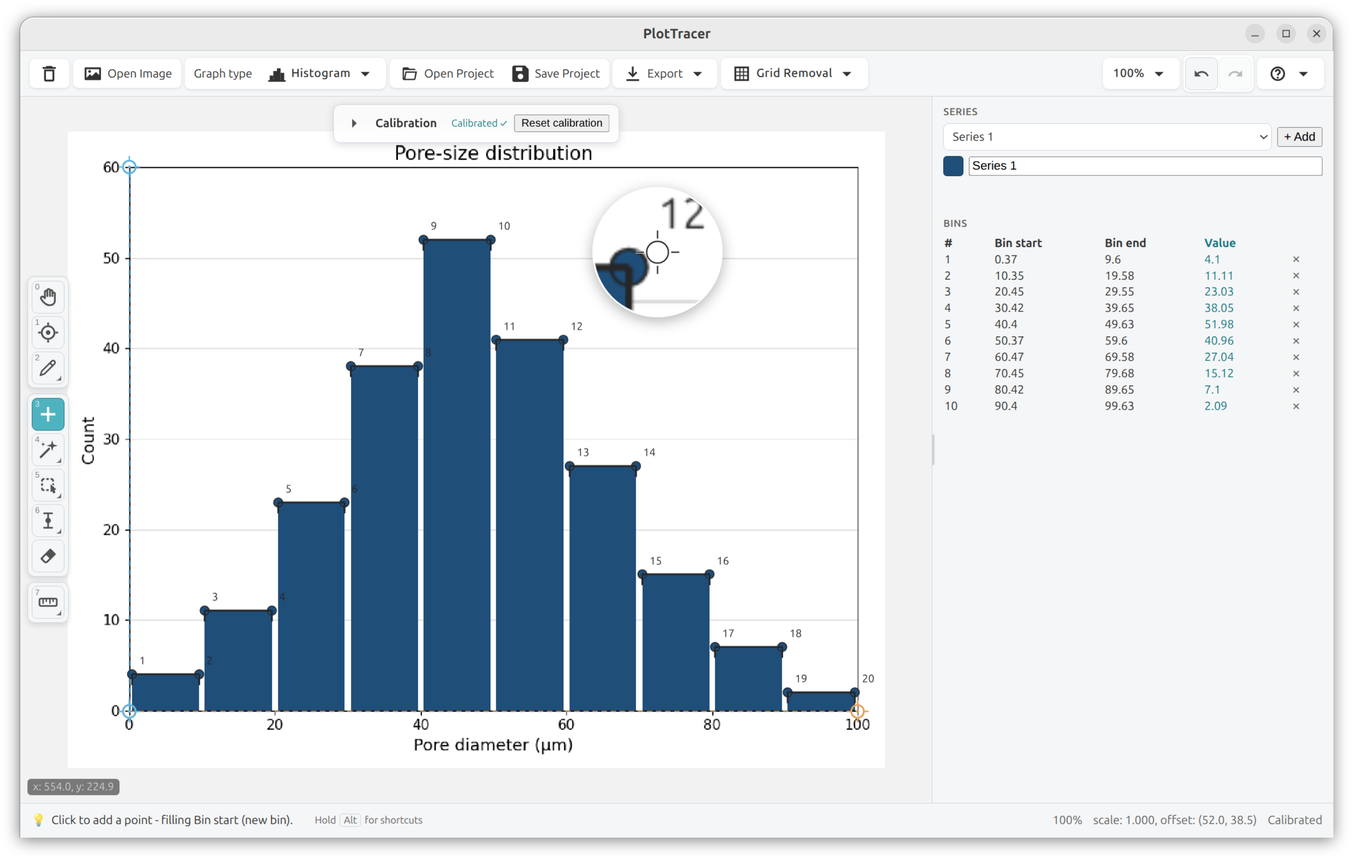
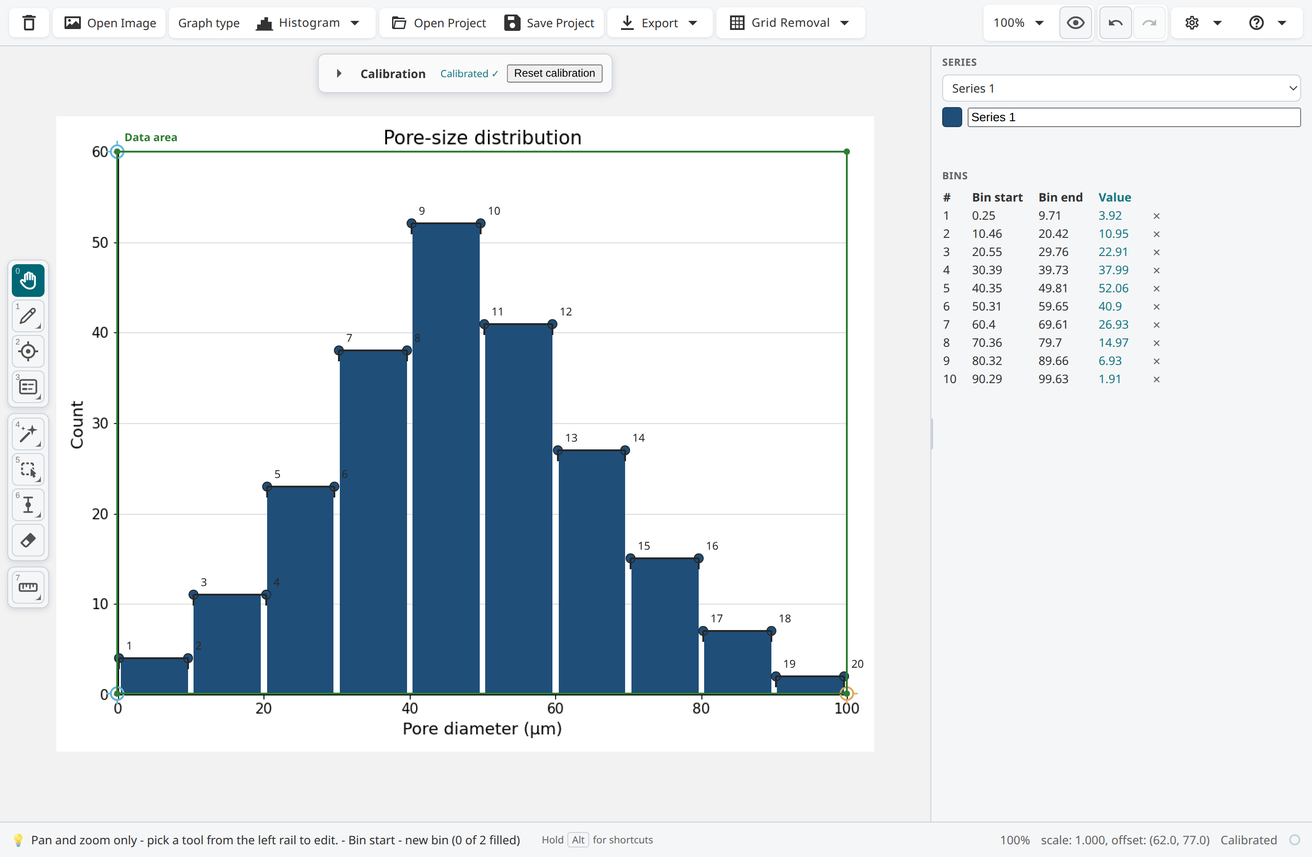
The website for 2.7: what's new, the hero, the steps and the gallery
- New in 2.7 replaces New in 2.6: axes detected, the legend read, every series
  in one press, bars found whole and one ink told apart. Two columns, so four
  cards no longer leave one alone on a row.
- The hero frame is 2.7's own: the dash-coded release figure after one press of
  Auto-extract all series, four formulations as four series.
- How it works: Capture and calibrate, Extract, Export.
- Capabilities: Contour in the list of sixteen types; Auto-extract, the label
  reader, hatched fills and the hard graphs say what 2.7 does.
- Gallery: a new grouped-bar frame, and the heatmap, hatched bars, histogram
  and scatter fit retaken in 2.7. Pie, donut, spider, box plot, error bars and
  floating bars keep their 2.6 frames: the harness cannot yet walk those cards
  to a result in 2.7. Values quoted in captions were checked against truth.
- Releases: a 2.7.0 entry.
- Phone width: the top bar was 523px wide on a 390px screen on every page. At
  480px and below it keeps this page's link and Download.

diff --git a/docs/index.html b/docs/index.html
@@ -4,7 +4,7 @@
 <meta charset="utf-8">
 <meta name="viewport" content="width=device-width, initial-scale=1">
 <title>PlotTracer - turn any graph back into data</title>
-<meta name="description" content="PlotTracer is a free, offline, cross-platform desktop app that extracts precise numbers from the figures in scientific papers - across XY, log, bar, histogram, box-plot, line, pie/donut, heatmap, polar, spider/radar, ternary, map and circular-chart-recorder figures. Export to CSV, TSV, JSON, Excel, OpenDocument, LaTeX, MATLAB, Python and R.">
+<meta name="description" content="PlotTracer is a free, offline, cross-platform desktop app that extracts precise numbers from the figures in scientific papers - across XY, log, bar, histogram, box-plot, line, pie/donut, heatmap, contour, polar, spider/radar, ternary, map and circular-chart-recorder figures. Export to CSV, TSV, JSON, Excel, OpenDocument, LaTeX, MATLAB, Python and R.">
 <meta property="og:type" content="website">
 <meta property="og:title" content="PlotTracer - turn any graph back into data">
 <meta property="og:description" content="A free, offline desktop digitizer for scientific figures. Graph in, reliable data out.">
@@ -112,6 +112,9 @@
   nav.top a { font-family: var(--mono); font-size: 0.8rem; letter-spacing: 0.02em; color: var(--ink-soft); text-decoration: none; }
   nav.top a:hover { color: var(--teal-deep); }
   @media (max-width: 720px) { nav.top a.hideable { display: none; } }
+  /* Phone width: four links still overflowed a 390px screen by 133px. GitHub is also in the hero,
+     and Releases in What's new. */
+  @media (max-width: 480px) { nav.top { gap: 14px; } nav.top a.hide-narrow { display: none; } }
 
   /* ---- buttons ---- */
   .btn {
@@ -171,8 +174,8 @@
   .wn-head .eyebrow { margin-bottom: 12px; }
   .wn-head h2 { font-size: clamp(1.5rem, 3vw, 2.2rem); }
   .wn-head p { color: var(--ink-soft); margin: 12px 0 0; max-width: 42em; }
-  .wn-grid { display: grid; grid-template-columns: repeat(3, 1fr); gap: 14px; }
-  @media (max-width: 880px) { .wn-grid { grid-template-columns: 1fr 1fr; } }
+  /* Two columns: the section carries four cards, and three left the fourth alone on a row. */
+  .wn-grid { display: grid; grid-template-columns: repeat(2, 1fr); gap: 14px; }
   @media (max-width: 560px) { .wn-grid { grid-template-columns: 1fr; } }
   .wn { background: var(--card); border: 1px solid var(--line); border-radius: 13px; padding: 20px 19px 18px; }
   .wn h3 { font-size: 1rem; margin: 0 0 6px; }
@@ -332,8 +335,8 @@
       <a class="hideable" href="#how">How it works</a>
       <a class="hideable" href="#types">Graph types</a>
       <a href="accuracy.html">Accuracy</a>
-      <a href="releases.html">Releases</a>
-      <a href="https://github.com/katalystnord/plottracer">GitHub</a>
+      <a class="hide-narrow" href="releases.html">Releases</a>
+      <a class="hide-narrow" href="https://github.com/katalystnord/plottracer">GitHub</a>
       <a href="#download" class="btn btn-primary" style="padding:8px 16px;">Download</a>
     </nav>
   </div>
@@ -421,59 +424,63 @@
 <section class="hero-shot">
   <div class="wrap">
     <div class="frame">
-      <img class="shot" src="assets/shot-hero.png" width="3040" height="1934"
-        alt="The PlotTracer desktop app tracing a cumulative-release figure: four dash-coded formulations fanning out from the origin, two of them already traced with the extracted points sitting on the ink, numbered guide points along the live curve, and 182 extracted values in the right-hand panel with the selected point ringed on the figure.">
+      <img class="shot" src="assets/shot-hero.png" width="2888" height="1888"
+        alt="The PlotTracer desktop app after one press of Auto-extract all series on a cumulative-release figure: four formulations drawn in the same black ink and told apart by their dash pattern, each read as its own series named from the legend, the legend outlined where it was detected, the values of every series in the right-hand panel, and six places to check listed below them.">
     </div>
-    <p class="cap">Four dash-coded curves running close together - two traced from a handful of guide points, and you can see the points land on the ink.</p>
+    <p class="cap">Four formulations in one ink, told apart by their dash pattern. The axes were detected, the legend read, and one press of Auto-extract all series read each formulation as its own series. Where it was unsure, it lists the place to check.</p>
   </div>
 </section>
 
-<!-- ===================== WHAT'S NEW IN 2.6 ===================== -->
+<!-- ===================== WHAT'S NEW IN 2.7 ===================== -->
 <section class="whatsnew">
   <div class="wrap">
     <div class="wn-head">
-      <span class="eyebrow">New in 2.6</span>
-      <h2>The release that tells same-colour lines apart.</h2>
-      <p>One press finds every line of one colour, each as its own line - through
-        crossings, shared stretches and their own labels - and says where it was unsure.
-        Contour plots join as a chart type, with their labels read and their levels taken
-        from a colour key.</p>
+      <span class="eyebrow">New in 2.7</span>
+      <h2>The release that extracts the figure for you.</h2>
+      <p>The first release of the automatic pathway. Capture a figure, and PlotTracer
+        can detect its axes, read its legend and extract every series in a few presses.
+        Each step is one card holding every way of doing it: a click, the guided order,
+        or an automatic detection. They make the same marks, and every one stays yours
+        to check, move or redo.</p>
     </div>
     <div class="wn-grid">
 
       <div class="wn">
-        <h3>Find lines</h3>
-        <p>Every line of the picked colour becomes its own line, even where lines of the
-          same ink cross, touch or run together. A gap the figure drew no ink in is bridged
-          by a fair interpolation and <b>marked</b> as bridged; a stretch two curves share
-          is recorded in both. A first version, and the button says so.</p>
+        <h3>Axes detected and calibrated</h3>
+        <p><b>Automatic axis detection</b> puts the calibration points on labelled tick
+          marks, with the numbers printed there, and the data area on the plot's frame:
+          on XY, contour, histogram and the bar family. On a bar chart the category names
+          are read from the labels and <b>offered</b> under each mark; nothing is written
+          until you use them.</p>
       </div>
 
       <div class="wn">
-        <h3>Where it is unsure, it says so</h3>
-        <p>It never guesses a join. The pieces stay apart and the place is listed under
-          <b>Places to check</b>: one click takes you there, and Cut, Join with, Move and a
-          box that selects across every line put it right. One Undo reverses any of it.</p>
+        <h3>The legend read</h3>
+        <p><b>Auto detect legend</b> finds the legend, masks it, and reads each entry's
+          name and the colour, line style or marker beside it. Those names become the
+          series.</p>
       </div>
 
       <div class="wn">
-        <h3>Contour, a new chart type</h3>
-        <p>A contour line carries its level as a number, so the export redraws the plot on
-          its own. Lines that share a level sit together under it, and a line clicked all
-          the way round closes on its own ink.</p>
+        <h3>Every series in one press</h3>
+        <p><b>Auto-extract all series</b> reads each series the legend names with the tool
+          that suits it, and reports one short line per series. With no legend, a bar
+          chart's series are its bar colours and a line chart's are its inks. One Undo
+          takes the whole read back.</p>
       </div>
 
       <div class="wn">
-        <h3>Levels from the labels, or the key</h3>
-        <p>Each line's own label is read and <b>offered</b> beside its level - never
-          written in unasked, because a wrong level looks exactly like a right one. On a
-          coloured plot, a colour key calibrates the levels instead, linear or log.</p>
+        <h3>Bars found whole, one ink told apart</h3>
+        <p>A chart-element detector finds bars whole, hatched ones included: on real and
+          synthetic test figures it found 79.5% and 79.6% of the bars, and 95.2% and 92.4%
+          of the boxes it placed were bars. Series drawn in one ink are told apart by
+          their dash pattern or their marker.</p>
       </div>
 
     </div>
     <p class="wn-foot">All of it runs on your machine; no part of a figure leaves it.</p>
-    <p class="wn-foot" style="margin-top:14px;"><a href="releases.html">Every release, newest first</a>
-      - what each one fixed, as plainly as what it added.</p>
+    <p class="wn-foot" style="margin-top:14px;"><a href="releases.html">Every release, newest first</a>:
+      what each one fixed, as plainly as what it added.</p>
   </div>
 </section>
 
@@ -499,9 +506,10 @@
           <text x="159" y="38" font-family="ui-monospace, monospace" font-size="12" fill="var(--ink-soft)">x=10</text>
         </svg>
         <span class="num">STEP 01</span>
-        <h3>Calibrate</h3>
-        <p>Mark the axes with a couple of clicks. PlotTracer learns the figure's
-          coordinate system - linear, log, polar, or dates.</p>
+        <h3>Capture and calibrate</h3>
+        <p>Frame the figure and mark two labelled ticks on each axis, or let automatic
+          detection place them. PlotTracer learns the figure's coordinate system:
+          linear, log, polar, or dates.</p>
       </div>
 
       <div class="step">
@@ -517,9 +525,10 @@
           <circle cx="104" cy="54" r="4" class="il-amber"/>
         </svg>
         <span class="num">STEP 02</span>
-        <h3>Trace</h3>
-        <p>Place points with the zoom loupe, or auto-extract a whole curve by colour,
-          fill, or blob detection. Fix anything in a click.</p>
+        <h3>Extract</h3>
+        <p>Mark the legend and press Auto-extract all series, or take one series at a
+          time: by line, by colour, by fill, or by hand with the zoom loupe. Fix
+          anything in a click.</p>
       </div>
 
       <div class="step">
@@ -539,7 +548,7 @@
         <span class="num">STEP 03</span>
         <h3>Export</h3>
         <p>Send clean numbers to CSV, TSV, JSON, Excel, OpenDocument, LaTeX, MATLAB,
-          Python or R - or straight to the clipboard, at the figure's real precision.</p>
+          Python or R, or straight to the clipboard, at the figure's real precision.</p>
       </div>
 
     </div>
@@ -554,18 +563,23 @@
       <h2>Built for the graphs papers actually publish.</h2>
       <p>Curves that run together and share a colour, heatmaps read cell by cell, floating
         bars measured end to end, asymmetric error bars, true histogram bins, box
-        plots, pie and donut charts - the same tool, on the plots you meet in practice.</p>
+        plots, pie and donut charts: the same tool, on the plots you meet in practice.</p>
     </div>
     <div class="shots">
       <figure class="shot-card" style="grid-column: 1 / -1;">
-        <img class="shot" src="assets/shot-heatmap.png" width="2980" height="1894"
-          alt="The PlotTracer desktop app reading a heatmap: peak temperature across a weld cross-section, distance against depth, its column boundaries measured from the figure's own rules and visibly unequal, all 20 cells read through the calibrated colour key, and the extracted matrix in the right panel tinted with the figure's own colours, each row and column showing the range it spans.">
-        <figcaption><b>Heatmaps - no other digitizer reads them coherently.</b> Every cell read through a calibrated colour key, on boundaries measured from the figure itself rather than divided evenly - so unequal columns come back unequal. The matrix is tinted with the figure&rsquo;s own colours, and a picked cell shows all three of its coordinates.</figcaption>
+        <img class="shot" src="assets/shot-grouped.png" width="2888" height="1888"
+          alt="A grouped bar chart of cell viability in PlotTracer, control against treatment on days 3, 7, 14 and 21: the axes and the four category names detected from the figure, the legend outlined where it was found, every bar read and filed under its series by colour, and the right panel listing Control and Treatment side by side for each day.">
+        <figcaption><b>Grouped bars, named and filed in a few presses.</b> The axes and the category names were detected from the figure, the legend was read, and Auto-extract all series filed every bar under the series whose colour fills it. Each value lands within 0.21 of the number the figure was drawn from, on an axis that runs to 70.</figcaption>
       </figure>
       <figure class="shot-card" style="grid-column: 1 / -1;">
-        <img class="shot" src="assets/shot-hatched.png" width="1999" height="1307"
-          alt="A bar chart of extraction yield by solvent in PlotTracer, every bar filled with a diagonal hatch, each one captured whole with a point at its top and its baseline, the loupe magnifying a bar's stroked top-left corner, and the six solvent names - Water, Ethanol, Methanol, Acetone, Hexane, Ethyl acetate - listed down the right panel beside their yields, having been read off the axis rather than typed.">
-        <figcaption><b>Hatched and patterned fills, read as whole bars.</b> A hatch cuts a bar into stripes, and a tracer that goes on colour alone hands back the stripes. PlotTracer puts them back together, using the category boundaries you already marked as the evidence that a pile of pieces is one bar. The six solvent names came off the axis in a single drag - read from the figure, shown to you with the pixels they came from, and typed nowhere.</figcaption>
+        <img class="shot" src="assets/shot-heatmap.png" width="2888" height="1888"
+          alt="The PlotTracer desktop app reading a heatmap of target engagement over time: five treatments against time in hours, its column boundaries at 0, 1, 2, 4, 8 and 24 hours and visibly unequal, all 25 cells read through the calibrated colour key, and the extracted matrix in the right panel tinted with the figure's own colours, each row and column showing the range it spans.">
+        <figcaption><b>Heatmaps: no other digitizer reads them coherently.</b> Every cell read through a calibrated colour key, on boundaries measured from the figure itself rather than divided evenly, so unequal columns come back unequal: here 0, 1, 2, 4, 8 and 24 hours. The matrix is tinted with the figure&rsquo;s own colours, so a cell in the table and a cell in the figure are plainly the same cell.</figcaption>
+      </figure>
+      <figure class="shot-card" style="grid-column: 1 / -1;">
+        <img class="shot" src="assets/shot-hatched.png" width="2888" height="1888"
+          alt="A bar chart of extraction yield by solvent in PlotTracer, every bar filled with a diagonal hatch and each one found whole, with a point at its top and its baseline, and the six solvent names, Water, Ethanol, Methanol, Acetone, Hexane and Ethyl acetate, listed down the right panel beside their yields, read off the axis rather than typed.">
+        <figcaption><b>Hatched bars, found whole.</b> A hatch cuts a bar into stripes, and a tracer that goes on colour alone hands back the stripes. The chart-element detector finds each bar whole, with no legend needed, and the six solvent names were read off the axis and offered under each tick mark, then used with one press. Typed nowhere, and every yield within 0.24 of the figure&rsquo;s own.</figcaption>
       </figure>
       <figure class="shot-card" style="grid-column: 1 / -1;">
         <img class="shot" src="assets/shot-bar.png" width="2980" height="1894"
@@ -578,9 +592,9 @@
         <figcaption><b>Error &amp; uncertainty.</b> Place each cap where the figure actually draws it - asymmetric and all. Here a 95% CI runs +359 above the point and −211 below it, and both are recorded as measured rather than one being assumed from the other. The tool says up front that the second cap starts as a mirror rather than a measurement, and the cap is draggable where it stands.</figcaption>
       </figure>
       <figure class="shot-card">
-        <img class="shot" src="assets/shot-histogram.png" width="2980" height="1894"
+        <img class="shot" src="assets/shot-histogram.png" width="2888" height="1888"
           alt="A histogram in PlotTracer with bin edges captured.">
-        <figcaption><b>True histogram bins.</b> Records the interval each bar spans and its height - genuine bin edges, not just centres.</figcaption>
+        <figcaption><b>True histogram bins.</b> Records the interval each bar spans and its height: genuine bin edges, not just centres.</figcaption>
       </figure>
       <figure class="shot-card">
         <img class="shot" src="assets/shot-donut.png" width="1999" height="1307"
@@ -603,9 +617,9 @@
         <figcaption><b>Box plots.</b> Quartiles and whiskers captured per category, named and exported side by side. Ternary, map, circular chart recorders and categorical-X line charts are calibrated the way each figure draws them too.</figcaption>
       </figure>
       <figure class="shot-card">
-        <img class="shot" src="assets/shot-scatter-fit.png" width="2980" height="1894"
+        <img class="shot" src="assets/shot-scatter-fit.png" width="2888" height="1888"
           alt="A scatter plot in PlotTracer with a fitted trend line through the extracted points.">
-        <figcaption><b>Scatter &amp; curve fit.</b> Fit a model through the points - the fit exports as its own block, never mixed into the record.</figcaption>
+        <figcaption><b>Scatter &amp; curve fit.</b> Fit a model through the points; the fit exports as its own block, never mixed into the record.</figcaption>
       </figure>
     </div>
   </div>
@@ -703,7 +717,7 @@
       <div class="feature">
         <svg class="ico" viewBox="0 0 24 24" fill="none" stroke="currentColor" stroke-width="1.7" stroke-linecap="round" stroke-linejoin="round"><path d="M4 4v16h16"/><path d="M6 16c4-1 6-8 12-11"/></svg>
         <h3>Sixteen chart types</h3>
-        <p>XY, bar, categorical line, histogram, span, stacked bar, candlestick, box plot, polar, spider/radar, pie/donut, heatmap, ternary, map and circular chart recorders - each calibrated the way that figure is actually drawn.</p>
+        <p>XY, bar, categorical line, histogram, span, stacked bar, candlestick, box plot, polar, spider/radar, pie/donut, heatmap, contour, ternary, map and circular chart recorders, each calibrated the way that figure is actually drawn.</p>
       </div>
 
       <div class="feature">
@@ -720,8 +734,8 @@
 
       <div class="feature">
         <svg class="ico" viewBox="0 0 24 24" fill="none" stroke="currentColor" stroke-width="1.7" stroke-linecap="round" stroke-linejoin="round"><path d="M3 13h3l2-6 4 12 2-8h7"/><path d="M18 3l1 2 2 1-2 1-1 2-1-2-2-1 2-1z"/></svg>
-        <h3>Auto-extract curves</h3>
-        <p>Trace a whole series in one pass: by colour, by connected fill, or by blob detection for scatter.</p>
+        <h3>Auto-extract every series</h3>
+        <p>One press reads every series the legend names: lines by Find lines, markers by colour, bars by the detector. Or take one series at a time, by colour, by connected fill, or from a few guide points.</p>
       </div>
 
       <div class="feature">
@@ -744,13 +758,13 @@
       <div class="feature">
         <svg class="ico" viewBox="0 0 24 24" fill="none" stroke="currentColor" stroke-width="1.7" stroke-linecap="round" stroke-linejoin="round"><path d="M3 20V4"/><path d="M3 20h18"/><rect x="6.5" y="8" width="4" height="12"/><rect x="13.5" y="11" width="4" height="9"/><path d="M6.5 11l4-3M6.5 15l4-3M6.5 19l4-3M13.5 14l4-3M13.5 18l4-3"/></svg>
         <h3>Hatched and patterned fills</h3>
-        <p>A hatch is drawn in a colour the trace drops, which parts a bar into fragments. PlotTracer puts the pieces back together from their own geometry, so a hatched bar is read as one bar.</p>
+        <p>A hatch parts a bar into stripes for a tracer that goes on colour. The detector finds the bar whole, and where it finds none the pieces are put back together from their own geometry, so a hatched bar is read as one bar.</p>
       </div>
 
       <div class="feature">
         <svg class="ico" viewBox="0 0 24 24" fill="none" stroke="currentColor" stroke-width="1.7" stroke-linecap="round" stroke-linejoin="round"><rect x="2.5" y="6.5" width="19" height="11" rx="1.5" stroke-dasharray="3 2.4"/><path d="M6.5 14.5l2.6-6 2.6 6M7.4 12.6h3.4"/><path d="M15 14.5V9.5M15 11.2c1.4-1.6 3.2-.9 3.2.9v2.4"/></svg>
         <h3>Reads the labels for you</h3>
-        <p>Drag one box round the category labels and the names come back read off the figure - each shown beside the pixels it was read from, for you to approve or correct before anything lands. Sideways labels included, and the reader is bundled in the app, so nothing leaves your machine.</p>
+        <p>Tick labels, category names, legend entries and contour levels are read off the figure and offered beside the pixels they came from, for you to use or correct before anything lands. Sideways labels included, and the reader is bundled in the app, so nothing leaves your machine.</p>
       </div>
 
       <div class="feature">
@@ -762,7 +776,7 @@
       <div class="feature">
         <svg class="ico" viewBox="0 0 24 24" fill="none" stroke="currentColor" stroke-width="1.7" stroke-linecap="round" stroke-linejoin="round"><path d="M3 18c4 0 5-11 9-11s5 11 9 8" stroke-dasharray="3 3"/><circle cx="3" cy="18" r="1.5" fill="currentColor" stroke="none"/><circle cx="12" cy="7" r="1.5" fill="currentColor" stroke="none"/><circle cx="21" cy="15" r="1.5" fill="currentColor" stroke="none"/></svg>
         <h3>Built for the hard graphs</h3>
-        <p>Interpolation-assist traces dashed, overlapping and monochrome curves that colour tools miss - drop a few guide points, a spline fills the rest, even where a curve doubles back.</p>
+        <p>Find lines takes dashed, dotted and overlapping curves in one ink apart, each as its own line, and says where it was unsure. Follow guide points does the rest: drop a few points, and a spline fills between them, even where a curve doubles back.</p>
       </div>
 
       <div class="feature">

diff --git a/docs/releases.html b/docs/releases.html
@@ -112,6 +112,8 @@
   nav.top a { font-family: var(--mono); font-size: 0.8rem; letter-spacing: 0.02em; color: var(--ink-soft); text-decoration: none; }
   nav.top a:hover { color: var(--teal-deep); }
   @media (max-width: 720px) { nav.top a.hideable { display: none; } }
+  /* Phone width: four links overflowed a 390px screen. Keep this page's own link and Download. */
+  @media (max-width: 480px) { nav.top { gap: 14px; } nav.top a.hide-narrow { display: none; } }
 
   /* ---- buttons ---- */
   .btn {
@@ -331,9 +333,9 @@
     <nav class="top">
       <a class="hideable" href="index.html#how">How it works</a>
       <a class="hideable" href="index.html#types">Graph types</a>
-      <a href="accuracy.html">Accuracy</a>
+      <a class="hide-narrow" href="accuracy.html">Accuracy</a>
       <a href="releases.html" aria-current="page">Releases</a>
-      <a href="https://github.com/katalystnord/plottracer">GitHub</a>
+      <a class="hide-narrow" href="https://github.com/katalystnord/plottracer">GitHub</a>
       <a href="index.html#download" class="btn btn-primary" style="padding:8px 16px;">Download</a>
     </nav>
   </div>
@@ -368,6 +370,26 @@
          release here is a theme rather than a patch note: what the tool learned to
          read, and what it stopped getting wrong.</p>
     </div>
+      <article class="rel">
+        <div class="rel-head">
+          <span class="rel-ver data">2.7.0</span>
+          <span class="rel-when">2026-11</span>
+        </div>
+        <div class="rel-body">
+          <h2>The release that extracts the figure for you</h2>
+          <p class="rel-lede">The first release of the automatic pathway. The workflow is one card per step (open, capture, calibrate, mark the legend, extract, correct, export), and each card holds every way of doing its step: a click, the guided order, or an automatic detection. Any of them can finish or correct what another started.</p>
+          <ul>
+        <li>Automatic axis detection puts the calibration points on labelled tick marks on XY, contour, histogram and the bar family, and the data area on the plot's frame. On a bar chart the category names are read and offered under each mark.</li>
+        <li>The legend is detected and read: each entry's name and the colour, line style or marker beside it name the series.</li>
+        <li>Auto-extract all series reads every series in one press, with or without a legend, and one Undo takes it back.</li>
+        <li>Bars are found whole by a chart-element detector, hatched ones included. Series in one ink are told apart by their dash pattern or their marker.</li>
+        <li>Find lines reads dotted lines and runs through a spectrum's peaks. PaddleOCR replaces Tesseract as the text reader, offline.</li>
+        <li>The Trace Challenge is traced by hand, as a test of your eye and your aim.</li>
+          </ul>
+          <p class="rel-more"><a href="https://github.com/katalystnord/plottracer/releases/tag/v2.7.0">Full release notes for 2.7.0</a></p>
+        </div>
+      </article>
+
       <article class="rel">
         <div class="rel-head">
           <span class="rel-ver data">2.6.0</span>

diff --git a/docs/accuracy.html b/docs/accuracy.html
@@ -112,6 +112,8 @@
   nav.top a { font-family: var(--mono); font-size: 0.8rem; letter-spacing: 0.02em; color: var(--ink-soft); text-decoration: none; }
   nav.top a:hover { color: var(--teal-deep); }
   @media (max-width: 720px) { nav.top a.hideable { display: none; } }
+  /* Phone width: four links overflowed a 390px screen. Keep this page's own link and Download. */
+  @media (max-width: 480px) { nav.top { gap: 14px; } nav.top a.hide-narrow { display: none; } }
 
   /* ---- buttons ---- */
   .btn {
@@ -331,8 +333,8 @@
       <a class="hideable" href="index.html#how">How it works</a>
       <a class="hideable" href="index.html#types">Graph types</a>
       <a href="accuracy.html" aria-current="page">Accuracy</a>
-      <a href="releases.html">Releases</a>
-      <a href="https://github.com/katalystnord/plottracer">GitHub</a>
+      <a class="hide-narrow" href="releases.html">Releases</a>
+      <a class="hide-narrow" href="https://github.com/katalystnord/plottracer">GitHub</a>
       <a href="index.html#download" class="btn btn-primary" style="padding:8px 16px;">Download</a>
     </nav>
   </div>
